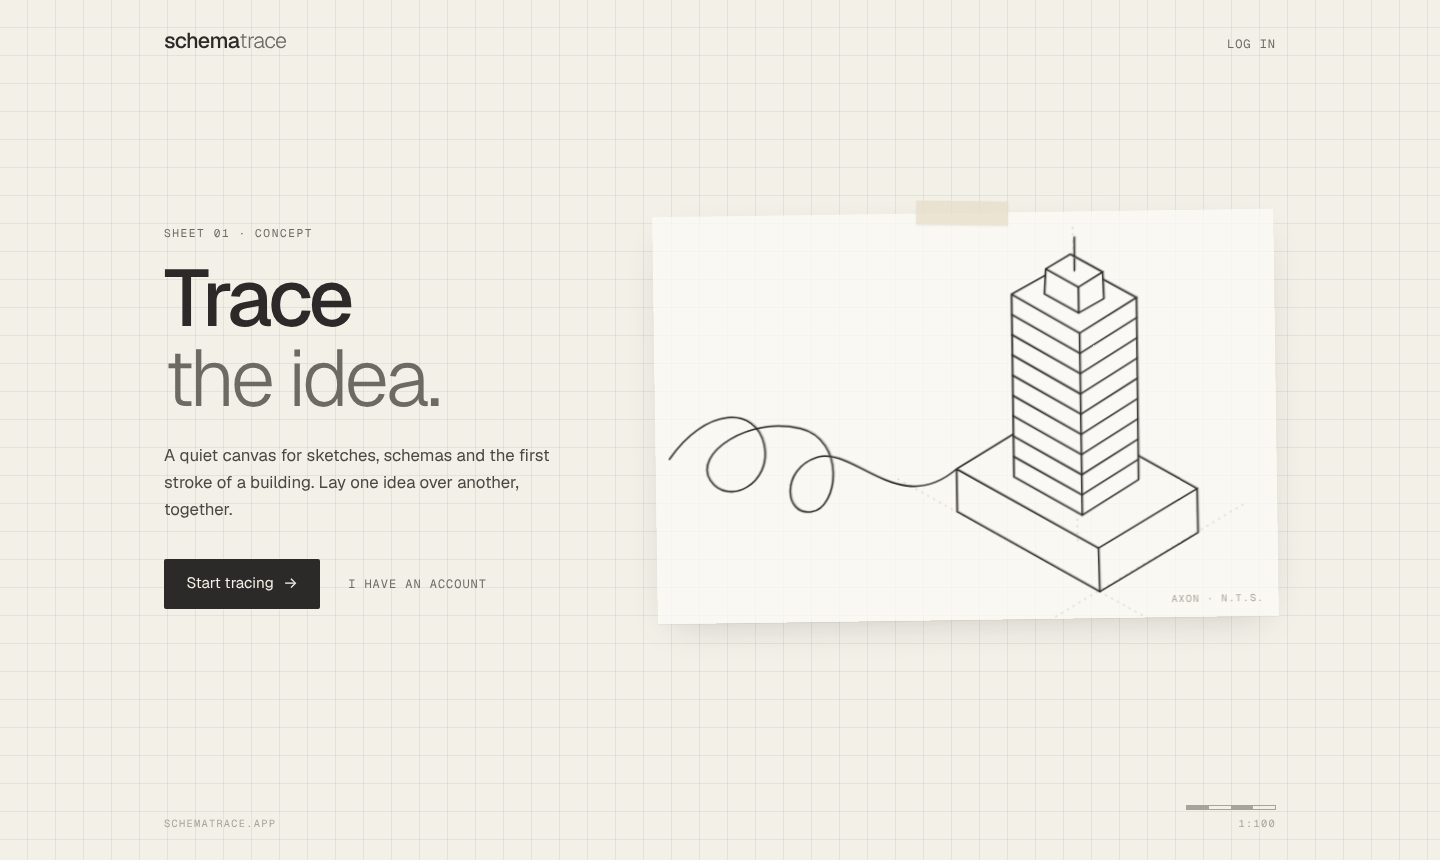
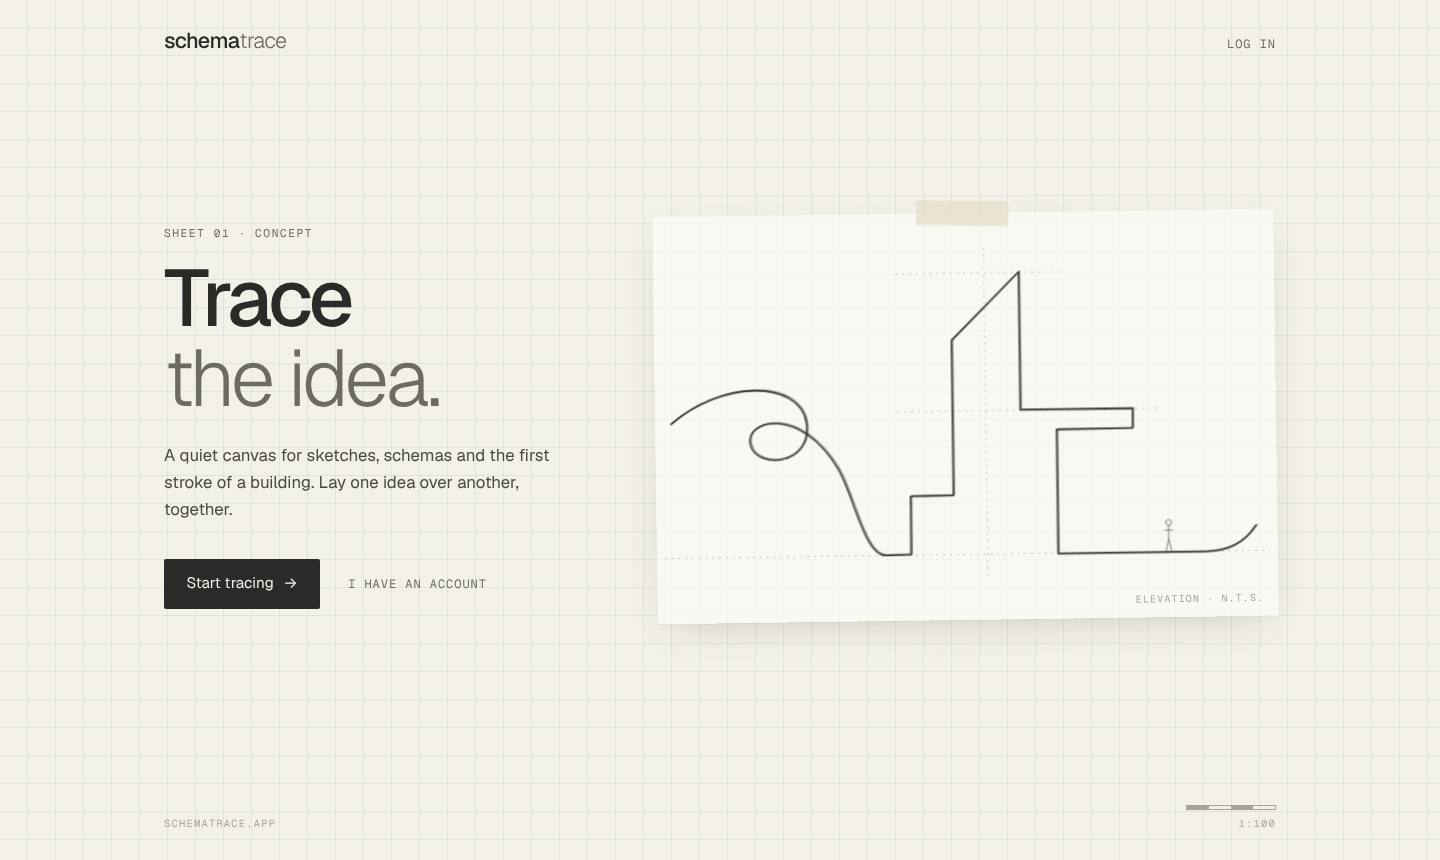
Landing: side elevation silhouette, one loop
The line now drifts in with a single turn, settles on the ground line and
traces a building in elevation (plinth, sloped tower, cantilevered slab),
with faint level lines and a figure for scale. Back to one continuous path
with a CSS dash animation.

Claude-Session: https://claude.ai/code/session_01KqAWEHwyCioNtwHjQqFsc1

Changed region(s): [[0.4688, 0.2721, 0.8438, 0.6953], [0.5938, 0.6047, 0.625, 0.6651]]

diff --git a/src/components/landing/TraceSketch.tsx b/src/components/landing/TraceSketch.tsx
@@ -1,182 +1,52 @@
 import styles from "./landing.module.css";
 
 /*
- * One pencil line wanders in from the left and commits to a form: a building in axonometric, with a podium,
- * a tower with its floor lines, a set-back crown and a mast. Each stroke is drawn in turn at the same
- * pencil speed, then the sheet rests, lifts and starts again.
- *
- * Every stroke is its own path animated with SMIL, because Chrome restarts dash patterns at each "M" in a
- * single path. Visitors who prefer reduced motion get the finished drawing (see the CSS module).
+ * A side elevation, drawn as one line: the pencil drifts in with a single loose turn, settles onto the
+ * ground line, rises into the profile of a building (a low plinth, a tower with a sloped roof, a
+ * cantilevered slab), comes back down and runs off along the ground before it lifts.
+ * One continuous path, so a CSS dash animation can trace it (see the CSS module for timing).
  */
 
-type P3 = [number, number, number];
-type P2 = [number, number];
+type P = [number, number];
 
-const LOOP = 11; // seconds per cycle
-const DRAW = 0.62; // share of the cycle spent drawing; the rest is rest and fade
+const G = 352; // ground line
 
-const COS = Math.cos(Math.PI / 6);
-const SIN = Math.sin(Math.PI / 6);
-
-/** Axonometric (30°) projection at unit scale: x runs right-down, y runs left-down, z runs up. */
-const project = ([x, y, z]: P3): P2 => [(x - y) * COS, (x + y) * SIN - z];
-
-// ---- The building, in plan units ----
-const A = 3.4, B = 2.4, H1 = 0.9; // podium
-const T = { x0: 0.9, x1: 2.5, y0: 0.5, y1: 1.9, z0: H1, z1: 4.7 }; // tower
-const C = { x0: 1.3, x1: 2.1, y0: 0.9, y1: 1.5, z0: T.z1, z1: 5.25 }; // crown
-const MAST = 5.95;
-const FLOORS = 9;
-
-type Box = typeof T;
-/** A box standing on something: its visible outline as two strokes, and its silhouette (to hide what is behind). */
-function box(b: Box) {
-  const L0: P3 = [b.x0, b.y1, b.z0], N0: P3 = [b.x1, b.y1, b.z0], R0: P3 = [b.x1, b.y0, b.z0];
-  const L: P3 = [b.x0, b.y1, b.z1], N: P3 = [b.x1, b.y1, b.z1], R: P3 = [b.x1, b.y0, b.z1], K: P3 = [b.x0, b.y0, b.z1];
-  return { strokes: [[N0, L0, L, K, R, N, L], [R, R0, N0, N]], silhouette: [L0, N0, R0, R, K, L] };
-}
-
-type Piece = { strokes: P3[][]; silhouette?: P3[] };
-const pieces: Piece[] = [];
-
-// Podium: the line arrives at its top-left corner, runs around it, then the near corner.
-pieces.push({
-  strokes: [
-    [[0, B, H1], [0, B, 0], [A, B, 0], [A, 0, 0], [A, 0, H1], [0, 0, H1], [0, B, H1], [A, B, H1], [A, 0, H1]],
-    [[A, B, 0], [A, B, H1]],
-  ],
-});
-// Tower outline, then its floor lines from the top down, the way you'd hatch them in.
-const tower = box(T);
-for (let i = FLOORS - 1; i >= 1; i--) {
-  const z = T.z0 + ((T.z1 - T.z0) * i) / FLOORS;
-  tower.strokes.push([[T.x0, T.y1, z], [T.x1, T.y1, z], [T.x1, T.y0, z]]);
-}
-pieces.push(tower);
-// Crown and mast.
-const crown = box(C);
-const mx = (C.x0 + C.x1) / 2, my = (C.y0 + C.y1) / 2;
-crown.strokes.push([[mx, my, C.z1], [mx, my, MAST]]);
-pieces.push(crown);
-
-// ---- Fit the drawing into the right part of the sheet ----
-const FIT = { x0: 268, x1: 600, y0: 26, y1: 392 };
-const flat = pieces.flatMap((p) => p.strokes.flat()).map(project);
-const minX = Math.min(...flat.map((p) => p[0])), maxX = Math.max(...flat.map((p) => p[0]));
-const minY = Math.min(...flat.map((p) => p[1])), maxY = Math.max(...flat.map((p) => p[1]));
-const scale = Math.min((FIT.x1 - FIT.x0) / (maxX - minX), (FIT.y1 - FIT.y0) / (maxY - minY));
-const offX = FIT.x0 + ((FIT.x1 - FIT.x0) - (maxX - minX) * scale) / 2 - minX * scale;
-const offY = FIT.y1 - maxY * scale;
-
-/** A tiny, repeatable wobble so ruled lines look drawn by hand. Same 3D point, same wobble. */
-const wobble = (p: P3, k: number) => Math.sin((p[0] * 7.1 + p[1] * 3.3 + p[2] * 5.7 + k) * 12.9898) * 0.8;
-const toScreen = (p: P3): P2 => {
-  const [x, y] = project(p);
-  return [x * scale + offX + wobble(p, 1), y * scale + offY + wobble(p, 2)];
-};
-const n = (v: number) => Math.round(v * 10) / 10;
-const dist = (a: P2, b: P2) => Math.hypot(a[0] - b[0], a[1] - b[1]);
-
-// ---- The wander: loose loops coming in from the left, as cubic Béziers ending on the podium corner ----
-type Cubic = [P2, P2, P2, P2];
-const [sx, sy] = toScreen(pieces[0].strokes[0][0]);
-const wander: Cubic[] = [
-  [[14, 250], [52, 196], [104, 196], [112, 236]],
-  [[112, 236], [120, 276], [74, 300], [56, 272]],
-  [[56, 272], [38, 244], [98, 206], [150, 220]],
-  [[150, 220], [196, 232], [188, 302], [160, 306]],
-  [[160, 306], [132, 310], [128, 262], [166, 250]],
-  [[166, 250], [204, 238], [sx - 60, sy + 50], [sx, sy]],
+// The building profile, left to right, in screen units of the 640×420 sheet.
+const profile: P[] = [
+  [236, G],
+  [262, G], [262, 292], // plinth
+  [306, 292], [306, 132], // tower, left face
+  [376, 62], // sloped roof
+  [376, 204], // tower, right face down to the slab
+  [492, 204], [492, 224], // cantilever
+  [414, 224], [414, G], // back under the slab, down to the ground
+  [566, G], // ground runs on
 ];
-const cubicAt = ([p0, p1, p2, p3]: Cubic, t: number): P2 => {
-  const u = 1 - t;
-  const f = (i: 0 | 1) => u * u * u * p0[i] + 3 * u * u * t * p1[i] + 3 * u * t * t * p2[i] + t * t * t * p3[i];
-  return [f(0), f(1)];
-};
-const cubicLength = (c: Cubic) => {
-  let len = 0, prev = c[0];
-  for (let i = 1; i <= 32; i++) { const p = cubicAt(c, i / 32); len += dist(prev, p); prev = p; }
-  return len;
-};
 
-// ---- Paths and timing: every stroke gets a slot proportional to its length ----
-type Drawn = { d: string; len: number };
-const pt = (p: P2) => `${n(p[0])} ${n(p[1])}`;
-const wanderD = `M ${pt(wander[0][0])}` + wander.map(([, a, b, c]) => ` C ${pt(a)}, ${pt(b)}, ${pt(c)}`).join("");
-const wanderLen = wander.reduce((s, c) => s + cubicLength(c), 0);
+/** A tiny, repeatable wobble so ruled lines look drawn by hand. */
+const wobble = (i: number) => Math.sin(i * 12.9898) * 0.7;
+const n = (v: number) => Math.round(v * 10) / 10;
 
-const polyline = (pts: P3[], fromWander: boolean): Drawn => {
-  const s = pts.map(toScreen);
-  let len = fromWander ? wanderLen : 0;
-  for (let i = 1; i < s.length; i++) len += dist(s[i - 1], s[i]);
-  const d = (fromWander ? wanderD : `M ${pt(s[0])}`) + s.slice(1).map((p) => ` L ${pt(p)}`).join("");
-  return { d, len };
-};
+const D =
+  // One loose turn, then down onto the ground line.
+  `M 16 214 C 70 168, 150 170, 156 214 S 104 262, 98 236 S 150 196, 188 262 ` +
+  `C 204 290, 214 ${G}, ${profile[0][0]} ${G}` +
+  profile.slice(1).map(([x, y], i) => ` L ${n(x + wobble(i))} ${n(y + wobble(i + 9))}`).join("") +
+  // Lift off the paper.
+  ` C 590 ${G}, 606 ${G - 8}, 618 ${G - 26}`;
 
-const drawnPieces = pieces.map((p, pi) => ({
-  silhouette: p.silhouette?.map(toScreen).map(([x, y]) => `${n(x)},${n(y)}`).join(" "),
-  strokes: p.strokes.map((s, si) => polyline(s, pi === 0 && si === 0)),
-}));
-const total = drawnPieces.reduce((s, p) => s + p.strokes.reduce((t, x) => t + x.len, 0), 0);
-
-let acc = 0;
-const timed = drawnPieces.map((p) => {
-  const startAt = acc / total;
-  const strokes = p.strokes.map((s) => {
-    const a = acc / total;
-    acc += s.len;
-    return { ...s, a, b: acc / total };
-  });
-  return { ...p, startAt, strokes };
-});
-const fmt = (v: number) => v.toFixed(4);
-/** keyTimes/values for one stroke: wait, draw during [a, b] of the drawing phase, then stay drawn. */
-const drawKeys = (a: number, b: number) =>
-  a === 0
-    ? { keyTimes: `0;${fmt(b * DRAW)};1`, values: "1;0;0" }
-    : { keyTimes: `0;${fmt(a * DRAW)};${fmt(b * DRAW)};1`, values: "1;1;0;0" };
-
-// The pencil tip follows the whole drawing, jumping across pen lifts.
-const tipPath = timed.flatMap((p) => p.strokes.map((s) => s.d)).join(" ");
-
-// Faint construction lines that settle in once the form is traced: ground axes through the near corner
-// and a plumb line through the mast.
-const g = (a: P3, b: P3) => `M ${pt(toScreen(a))} L ${pt(toScreen(b))}`;
-const guides = [g([-1.4, B, 0], [A + 1.6, B, 0]), g([A, B + 1.2, 0], [A, -1.2, 0]), g([mx, my, -0.4], [mx, my, MAST + 0.3])].join(" ");
-
-const dur = `${LOOP}s`;
-
-function Drawing({ animated }: { animated: boolean }) {
-  return (
-    <g className={animated ? styles.animated : styles.still} filter="url(#graphite)">
-      {animated && <animate attributeName="opacity" dur={dur} repeatCount="indefinite" keyTimes="0;0.9;0.98;1" values="1;1;0;0" />}
-      {timed.map((p, pi) => (
-        <g key={pi}>
-          {p.silhouette && (
-            <polygon className={styles.mask} points={p.silhouette}>
-              {animated && (
-                <animate attributeName="opacity" dur={dur} repeatCount="indefinite"
-                  keyTimes={`0;${fmt(p.startAt * DRAW)};${fmt(p.startAt * DRAW + 0.03)};1`} values="0;0;1;1" />
-              )}
-            </polygon>
-          )}
-          {p.strokes.map((s, si) => {
-            const k = drawKeys(s.a, s.b);
-            return [styles.ghost, ""].map((extra) => (
-              <path key={`${si}-${extra}`} className={`${styles.stroke} ${extra}`} d={s.d} pathLength={1}>
-                {animated && <animate attributeName="stroke-dashoffset" dur={dur} repeatCount="indefinite" calcMode="linear" {...k} />}
-              </path>
-            ));
-          })}
-        </g>
-      ))}
-    </g>
-  );
-}
+// Faint construction lines that settle in once the profile is traced, plus a figure for scale.
+const guides = [
+  `M 8 ${G} L 632 ${G}`, // ground, ruled across the sheet
+  `M 341 ${G + 22} L 341 36`, // tower axis
+  `M 250 62 L 420 62`, // roof level
+  `M 250 204 L 520 204`, // slab level
+].join(" ");
+const figure = `M 528 ${G - 30} m -3 0 a 3 3 0 1 0 6 0 a 3 3 0 1 0 -6 0 M 528 ${G - 27} L 528 ${G - 13} L 525 ${G} M 528 ${G - 13} L 531 ${G} M 524 ${G - 22} L 532 ${G - 22}`;
 
 export function TraceSketch() {
   return (
-    <svg className={styles.sketch} viewBox="0 0 640 420" role="img" aria-label="A pencil line wanders, then traces a tower in three dimensions">
+    <svg className={styles.sketch} viewBox="0 0 640 420" role="img" aria-label="A pencil line drifts in and traces the side elevation of a building">
       <defs>
         <filter id="graphite" x="-5%" y="-5%" width="110%" height="110%">
           <feTurbulence type="fractalNoise" baseFrequency="0.9" numOctaves="2" seed="4" result="grain" />
@@ -184,10 +54,13 @@ export function TraceSketch() {
         </filter>
       </defs>
       <path className={styles.guides} d={guides} />
-      <Drawing animated />
-      <Drawing animated={false} />
+      <path className={styles.figure} d={figure} />
+      <g filter="url(#graphite)">
+        <path className={`${styles.stroke} ${styles.ghost}`} d={D} pathLength={1} />
+        <path className={styles.stroke} d={D} pathLength={1} />
+      </g>
       <circle className={styles.tip} r="2.4">
-        <animateMotion dur={dur} repeatCount="indefinite" path={tipPath} keyPoints="0;1;1" keyTimes={`0;${DRAW};1`} calcMode="linear" />
+        <animateMotion dur="11s" repeatCount="indefinite" path={D} keyPoints="0;1;1" keyTimes="0;0.62;1" calcMode="linear" />
       </circle>
     </svg>
   );

diff --git a/src/components/landing/landing.module.css b/src/components/landing/landing.module.css
@@ -144,17 +144,16 @@
   stroke-linecap: round;
   stroke-linejoin: round;
   stroke-dasharray: 1 1;
-  stroke-dashoffset: 1; /* animated by SMIL in TraceSketch */
+  stroke-dashoffset: 1;
+  animation: trace 11s linear infinite;
 }
 .ghost {
   stroke: var(--pencil);
   stroke-width: 0.9;
   opacity: 0.55;
   transform: translate(1.4px, -0.8px);
+  animation-delay: 0.12s;
 }
-.mask { fill: rgb(250, 249, 245); }
-.still { display: none; }
-.still .stroke { stroke-dasharray: none; stroke-dashoffset: 0; }
 .guides {
   fill: none;
   stroke: var(--faint);
@@ -164,8 +163,22 @@
   animation: guides 11s linear infinite;
 }
 .tip { fill: var(--graphite); animation: tip 11s linear infinite; }
+.figure {
+  fill: none;
+  stroke: var(--pencil);
+  stroke-width: 0.9;
+  stroke-linecap: round;
+  opacity: 0;
+  animation: guides 11s linear infinite;
+}
 
-/* Strokes draw during the first 62% of the 11 s loop (SMIL), rest, then fade. Guides and tip follow along. */
+/* 0–62% the line is traced, then it rests, then it lifts off the paper and starts again. */
+@keyframes trace {
+  0% { stroke-dashoffset: 1; opacity: 1; }
+  62% { stroke-dashoffset: 0; opacity: 1; }
+  90% { stroke-dashoffset: 0; opacity: 1; }
+  98%, 100% { stroke-dashoffset: 0; opacity: 0; }
+}
 @keyframes guides {
   0%, 60% { opacity: 0; }
   70%, 88% { opacity: 1; }
@@ -196,7 +209,7 @@
 .scaleBar i:nth-child(odd) { background: var(--faint); }
 
 @media (prefers-reduced-motion: reduce) {
-  .animated, .tip { display: none; }
-  .still { display: inline; }
-  .guides { animation: none; opacity: 1; }
+  .stroke, .guides, .figure { animation: none; stroke-dashoffset: 0; opacity: 1; }
+  .ghost { opacity: 0.55; }
+  .tip { display: none; }
 }

diff --git a/src/app/page.tsx b/src/app/page.tsx
@@ -39,7 +39,7 @@ export default async function Home() {
         <figure className={styles.sheet}>
           <span className={styles.tape} aria-hidden />
           <TraceSketch />
-          <figcaption className={styles.sheetMeta}>Axon · n.t.s.</figcaption>
+          <figcaption className={styles.sheetMeta}>Elevation · n.t.s.</figcaption>
         </figure>
       </main>
 
